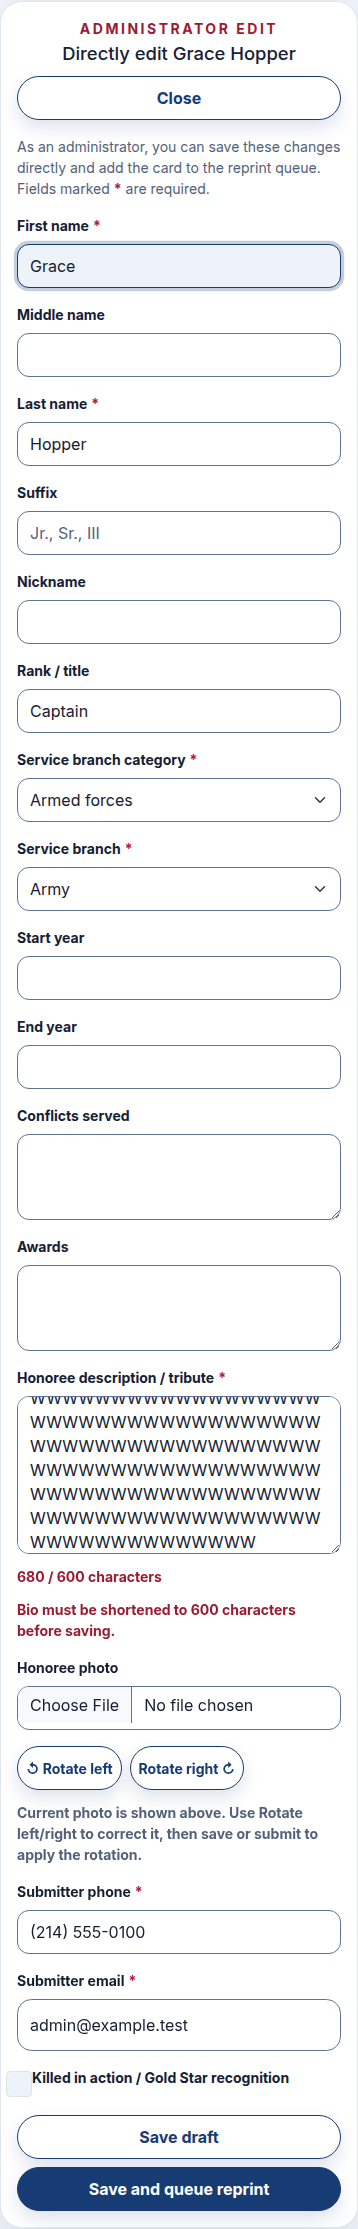
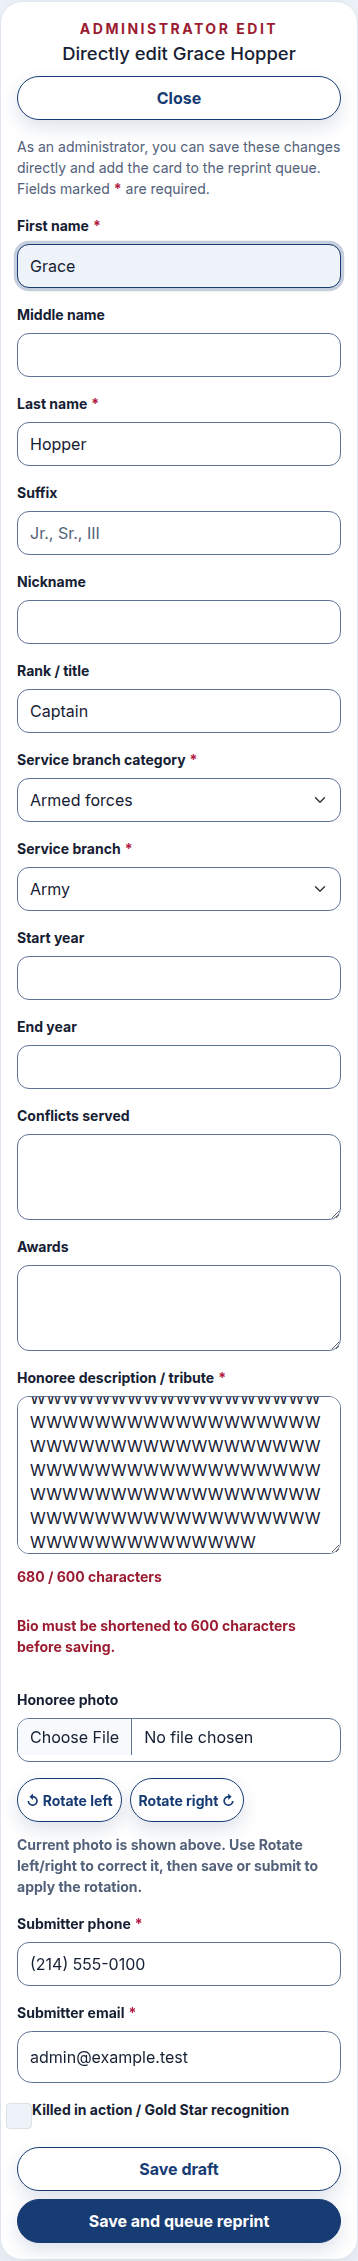
Rebuild stored cards and keep honor sections measurable.
Format version 3 rebuilds a card when a wide word now wraps, and a newline in the bio becomes one space. The 600-character limit is unchanged. A full header still drops Conflicts and Awards for a 600-character all-caps bio; that behavior is locked in a test until a decision.

diff --git a/frontend/src/apiErrorMessage.js b/frontend/src/apiErrorMessage.js
@@ -1,0 +1,28 @@
+const bioLimit = /Bio must be \d+ characters or fewer\./;
+
+function entriesOf(errors) {
+  if (!errors || typeof errors !== "object") return [];
+  return Object.entries(errors);
+}
+
+export function chooseServerMessage(parsed, rawMessage) {
+  const entries = entriesOf(parsed?.errors);
+  const bioMessages = entries
+    .filter(([field]) => {
+      const name = String(field).toLowerCase();
+      return name === "description" || name.endsWith(".description");
+    })
+    .flatMap(([, messages]) => (Array.isArray(messages) ? messages : []))
+    .map((message) => String(message))
+    .filter((message) => bioLimit.test(message));
+
+  if (bioMessages.length > 0) {
+    return bioMessages.join("; ");
+  }
+
+  const validationErrors = entries
+    .flatMap(([field, messages]) => (Array.isArray(messages) ? messages : []).map((message) => `${field}: ${message}`))
+    .join("; ");
+
+  return parsed?.message || parsed?.detail || parsed?.title || validationErrors || rawMessage;
+}

diff --git a/frontend/src/App.tsx b/frontend/src/App.tsx
@@ -5570,13 +5570,13 @@ export default function App() {
                   />
                   <p
                     id="honoree-bio-count"
-                    className={(form.description ?? "").length > HONOREE_BIO_MAX_LENGTH ? "bioCount bioCountOver" : "bioCount"}
+                    className={(form.description ?? "").length > HONOREE_BIO_MAX_LENGTH ? "form-text text-danger fw-bold" : "form-text"}
                     aria-live="polite"
                   >
                     {(form.description ?? "").length} / {HONOREE_BIO_MAX_LENGTH} characters
                   </p>
                   {(form.description ?? "").length > HONOREE_BIO_MAX_LENGTH ? (
-                    <p id="honoree-bio-limit" className="bioLimitMessage" role="alert">
+                    <p id="honoree-bio-limit" className="form-text text-danger fw-bold" role="alert">
                       {honoreeBioShortenMessage()}
                     </p>
                   ) : null}

diff --git a/frontend/src/api.ts b/frontend/src/api.ts
@@ -13,6 +13,7 @@ import {
   sharedTokenRequest,
   withNetworkRetry
 } from "./tokenRequest.js";
+import { chooseServerMessage } from "./apiErrorMessage.js";
 
 export class ApiError extends Error {
   status: number;
@@ -67,12 +68,7 @@ async function buildApiError(response: Response, method: string, url: string): P
           .join("; ")
       : "";
 
-    serverMessage =
-      validationErrors ||
-      parsed.message ||
-      parsed.detail ||
-      parsed.title ||
-      rawMessage;
+    serverMessage = chooseServerMessage(parsed, rawMessage);
 
     detail = [parsed.detail, validationErrors, parsed.currentStatus ? `Current status: ${parsed.currentStatus}` : ""]
       .filter(Boolean)

diff --git a/frontend/e2e/honoree-bio-length.spec.ts b/frontend/e2e/honoree-bio-length.spec.ts
@@ -233,7 +233,7 @@ test.describe("honoree bio length", () => {
       await bio.type("X");
       await expect(bio).toHaveValue(longBio);
       await expect(page.locator("#honoree-bio-count")).toHaveText(`${longBio.length} / ${limit} characters`);
-      await expect(page.locator("#honoree-bio-count")).toHaveClass(/bioCountOver/);
+      await expect(page.locator("#honoree-bio-count")).toHaveClass(/text-danger/);
       await expect(page.locator("#honoree-bio-limit")).toHaveText(honoreeBioShortenMessage());
       await expect(bio).toHaveAttribute("aria-describedby", /honoree-bio-limit/);
       await shot(page, `admin-over-limit-${viewport.name}`);

diff --git a/frontend/src/styles/forms.css b/frontend/src/styles/forms.css
@@ -55,23 +55,6 @@
   color: #3d4d66;
 }
 
-.bioCount {
-  margin: var(--space-3xs) 0 0;
-  color: #526179;
-  font-size: var(--font-caption);
-}
-
-.bioCountOver,
-.bioLimitMessage {
-  color: var(--color-crimson);
-  font-weight: 700;
-}
-
-.bioLimitMessage {
-  margin: var(--space-3xs) 0 0;
-  font-size: var(--font-caption);
-}
-
 .formCard label {
   text-align: left;
   @media (min-width: 761px) {

diff --git a/backend/PFOH.Api.Tests/HonoreeCardPdfLayoutTests.cs b/backend/PFOH.Api.Tests/HonoreeCardPdfLayoutTests.cs
@@ -74,6 +74,64 @@ public class HonoreeCardPdfLayoutTests
         AssertHeaderStaysCentered(runs, bio.X);
     }
 
+    // DECISION NEEDED. With a full header, a 600-character all-caps bio ends below
+    // the 578pt content bottom, so Conflicts served and Awards are omitted.
+    // This locks that current behavior. Flip the assertions to require both
+    // sections if the card is changed to keep them.
+    [Fact]
+    public void Full_header_bio_at_the_limit_currently_drops_conflicts_and_awards()
+    {
+        const string conflicts = "World War II, Korean War";
+        const string awards = "Purple Heart, Bronze Star, Distinguished Flying Cross";
+        const string honors =
+            "SERGEANT JAMES ALLEY RECEIVED THE DISTINGUISHED FLYING CROSS, PURPLE HEART, AND BRONZE STAR. CAPTAIN SALVADOR GUZMAN SERVED WITH THE UNITED STATES ARMY AIR CORPS BESIDE LIEUTENANT MARGARET COLE. ";
+        var runs = RenderFullHeaderHonors(Repeat(honors, HonoreeBioLimits.MaxLength), conflicts, awards);
+
+        Assert.Equal(HonoreeBioLimits.MaxLength, 600);
+        Assert.DoesNotContain(runs, run => run.Text.Contains("Conflicts served", StringComparison.Ordinal));
+        Assert.DoesNotContain(runs, run => run.Text.Contains("World War II", StringComparison.Ordinal));
+        Assert.DoesNotContain(runs, run => run.Text.Contains("Awards", StringComparison.Ordinal));
+        Assert.DoesNotContain(runs, run => run.Text.Contains("Purple Heart", StringComparison.Ordinal));
+        Assert.DoesNotContain(runs, run => run.Text.Contains("Distinguished Flying Cross", StringComparison.Ordinal));
+    }
+
+    private static List<TextRun> RenderFullHeaderHonors(string tribute, string conflicts, string awards)
+    {
+        var pdf = HonoreeReportPdfGenerator.Create(
+            new EmptyHost(),
+            new Honoree
+            {
+                FirstName = "Christopher",
+                MiddleName = "Montgomery",
+                LastName = "Worthington",
+                Nickname = "Kit",
+                Rank = "Lieutenant Colonel",
+                StartYear = 1942,
+                EndYear = 1975,
+                Description = tribute,
+                ConflictsServed = conflicts,
+                Awards = awards,
+                ServiceBranch = new ServiceBranch { ServiceBranchName = "United States Army Air Corps" },
+                FlagGrid = new FlagGrid { FlagGridName = "AA-40" }
+            },
+            searchResult: null,
+            photoBytes: null,
+            SyntheticArtwork());
+        return ReadRuns(pdf);
+    }
+
+    [Fact]
+    public void A_newline_in_the_bio_becomes_a_space_so_the_words_stay_separate()
+    {
+        foreach (var tribute in new[] { "Alpha\nBeta", "Alpha\r\nBeta", "Alpha\n\n\nBeta", "Alpha \n Beta" })
+        {
+            var runs = Render(tribute);
+            var joined = string.Join(" ", runs.OrderByDescending(run => run.Y).Select(run => run.Text));
+            Assert.True(joined.Contains("Alpha Beta", StringComparison.Ordinal), tribute + " => " + Dump(runs));
+            Assert.DoesNotContain("AlphaBeta", joined, StringComparison.Ordinal);
+        }
+    }
+
     [Fact]
     public void Long_bio_omits_conflicts_and_awards_instead_of_crowding_the_card()
     {

diff --git a/backend/PFOH.Api.Tests/Release52Tests.cs b/backend/PFOH.Api.Tests/Release52Tests.cs
@@ -251,7 +251,7 @@ public class Release52Tests : IDisposable
 
         var v1 = await CurrentStampAsync(1, formatVersion: 1);
         var current = await CurrentStampAsync(1);
-        Assert.Equal(2, HonoreePdfStamp.FormatVersion);
+        Assert.Equal(3, HonoreePdfStamp.FormatVersion);
         Assert.NotEqual(v1, current);
         factory.Files.Pdfs[1] = "%PDF-v1"u8.ToArray();
         factory.Files.PdfStamps[1] = v1;
@@ -259,6 +259,32 @@ public class Release52Tests : IDisposable
         var opened = await client.GetAsync("/api/honorees/1/pdf");
         Assert.Equal(HttpStatusCode.OK, opened.StatusCode);
         Assert.NotEqual("%PDF-v1", System.Text.Encoding.UTF8.GetString(await opened.Content.ReadAsByteArrayAsync()));
+        Assert.Equal(1, factory.Renderer.Calls);
+        Assert.Equal(current, factory.Files.PdfStamps[1]);
+
+        var again = await client.GetAsync("/api/honorees/1/pdf");
+        Assert.Equal(HttpStatusCode.OK, again.StatusCode);
+        Assert.Equal(1, factory.Renderer.Calls);
+    }
+
+    [Fact]
+    public async Task A_v2_card_stamp_is_rebuilt_on_open_and_startup_does_not_render()
+    {
+        await ResetAsync();
+        await SeedOnGridAsync(1, "Alex", "Rivera", 11, "AA-10", gridHonoreeId: 1);
+        var client = factory.CreateClient();
+        Assert.Equal(0, factory.Renderer.Calls);
+
+        var v2 = await CurrentStampAsync(1, formatVersion: 2);
+        var current = await CurrentStampAsync(1);
+        Assert.Equal(3, HonoreePdfStamp.FormatVersion);
+        Assert.NotEqual(v2, current);
+        factory.Files.Pdfs[1] = "%PDF-v2"u8.ToArray();
+        factory.Files.PdfStamps[1] = v2;
+
+        var opened = await client.GetAsync("/api/honorees/1/pdf");
+        Assert.Equal(HttpStatusCode.OK, opened.StatusCode);
+        Assert.NotEqual("%PDF-v2", System.Text.Encoding.UTF8.GetString(await opened.Content.ReadAsByteArrayAsync()));
         Assert.Equal(1, factory.Renderer.Calls);
         Assert.Equal(current, factory.Files.PdfStamps[1]);
 

diff --git a/backend/PFOH.Api/Services/HonoreeReportPdfGenerator.cs b/backend/PFOH.Api/Services/HonoreeReportPdfGenerator.cs
@@ -1085,5 +1085,50 @@ public static class HonoreeReportPdfGenerator
         return "MilitaryService.png";
     }
 
-    private static string Clean(string? value) => (value ?? string.Empty).Replace("\r", "").Replace("\n", "").Trim();
+    private static string Clean(string? value)
+    {
+        if (string.IsNullOrEmpty(value))
+        {
+            return string.Empty;
+        }
+
+        // A newline is a word break. Dropping it with no space glues the words
+        // together. A run of newlines, and the spaces beside that run, become one space.
+        var text = value.Replace("\r\n", "\n", StringComparison.Ordinal).Replace('\r', '\n');
+        var builder = new StringBuilder(text.Length);
+        var pendingSpace = false;
+        var afterBreak = false;
+        foreach (var ch in text)
+        {
+            if (ch == '\n')
+            {
+                afterBreak = true;
+                if (builder.Length > 0 && builder[^1] != ' ')
+                {
+                    pendingSpace = true;
+                }
+
+                continue;
+            }
+
+            if (afterBreak && ch is ' ' or '\t')
+            {
+                continue;
+            }
+
+            if (afterBreak)
+            {
+                afterBreak = false;
+                if (pendingSpace)
+                {
+                    builder.Append(' ');
+                    pendingSpace = false;
+                }
+            }
+
+            builder.Append(ch);
+        }
+
+        return builder.ToString().Trim();
+    }
 }

diff --git a/backend/PFOH.Api/Services/HonoreePdfStamp.cs b/backend/PFOH.Api/Services/HonoreePdfStamp.cs
@@ -11,9 +11,10 @@ namespace PFOH.Api.Services;
 /// </summary>
 public static class HonoreePdfStamp
 {
-    // 2 prints the rank on its own line under the name. A stored card stamped
-    // with 1 no longer matches, so the next open or print rebuilds that one card.
-    public const int FormatVersion = 2;
+    // 2 prints the rank on its own line under the name. 3 wraps a word that is
+    // wider than the bio box. A stored card stamped with an older version no
+    // longer matches, so the next open or print rebuilds that one card.
+    public const int FormatVersion = 3;
 
     public const string MetadataKey = "pfohstamp";
 

diff --git a/backend/PFOH.Api.Tests/HonoreeBioLengthTests.cs b/backend/PFOH.Api.Tests/HonoreeBioLengthTests.cs
@@ -120,7 +120,7 @@ public class HonoreeBioLengthTests(PfohApiFactory factory) : IClassFixture<PfohA
             "admin@example.test",
             "Admin",
             roles: "PFOH.Admin",
-            body: Form("Grace", "Hopper", Bio(HonoreeBioLimits.MaxLength + 40), rank: "Admiral")));
+            body: Form("Grace", "Hopper", Bio(601), rank: "Admiral")));
         await AssertBioRejected(rejected);
 
         await using (var scope = factory.Services.CreateAsyncScope())

diff --git a/CHANGELOG.md b/CHANGELOG.md
@@ -4,7 +4,7 @@
 
 - The honoree bio, the Description field, is limited to 600 characters. That is the largest multiple of 50 that fits all-caps prose, including long words and names, in the printed card bio area at 12 point DejaVu Sans within 24 lines, and it stays under the 650 character size where the card would shrink the type. The nomination form, a suggested change, and an administrator edit show a live count, "123 / 600 characters", and the server refuses a longer bio with "Bio must be 600 characters or fewer."
 - A bio already stored above 600 characters is not cut. An administrator edit shows the full text, the count in an over-limit state, and "Bio must be shortened to 600 characters before saving." Saving is refused until the bio is shortened. Approving a pending request that already has a longer bio still succeeds and keeps the full text.
-- A single word wider than the card bio box is broken onto the next line when the card is drawn. The stored bio is not changed.
+- A single word wider than the card bio box is broken onto the next line when the card is drawn. A stored card from the previous layout is rebuilt the next time it is opened or printed. A line break in the bio is kept as a space, so the words on either side stay separate. The stored bio is not changed.
 - There is no database change. docs/sql/bio-over-limit-count.sql is a read-only count of honorees and pending requests over the limit.
 
 ## 5.8.0
